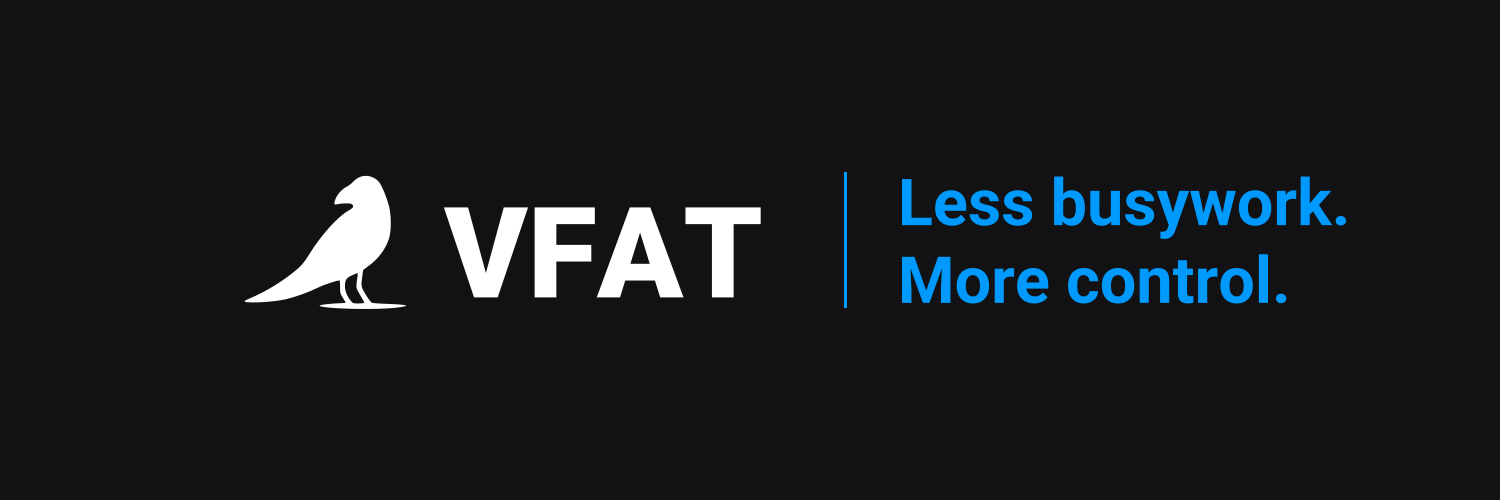
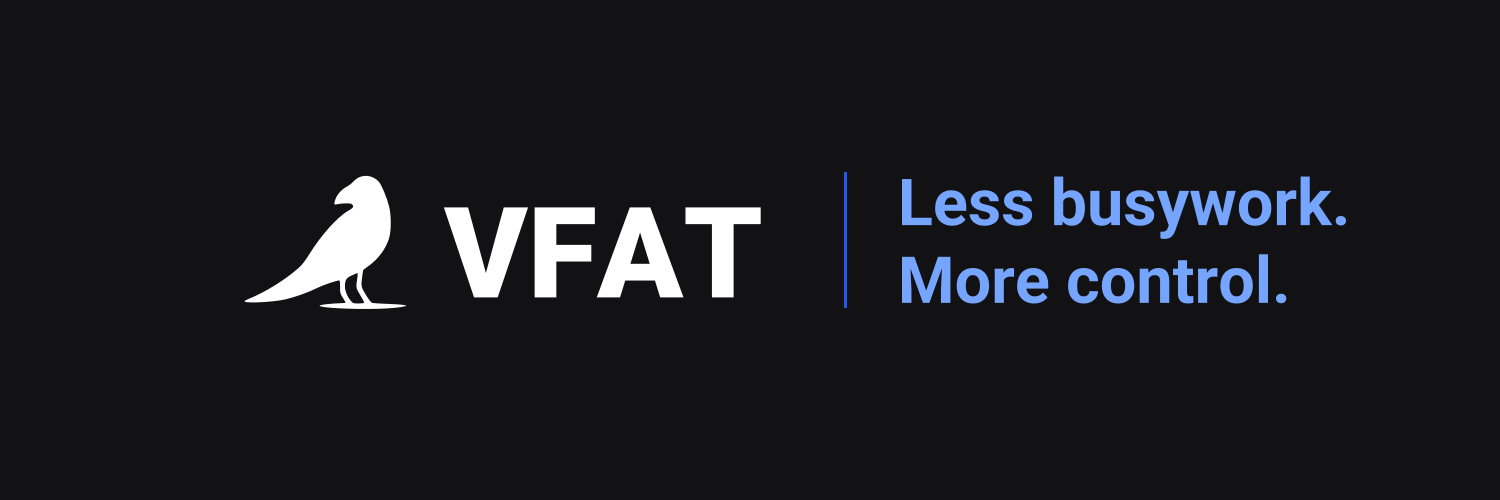
use the app's blues and add a color palette
- Blue #1d5bf0 (the app's buttons and links) replaces the link-card accent
  #009aff, which can't carry white text (2.97:1); Light blue #75a5ff for
  blue text on dark, and the app's light background #edecef.
- colors.css with --vfat-* custom properties next to colors.json, a swatch
  row in the preview sheet, and a README palette table with contrast notes
  and usage guidance.
- X banner tagline in Light blue on dark and Blue on light.
- Larger "vfat.io" on the landscape and square social images, so it stays
  readable at feed size.

Changed region(s): [[0.5827, 0.36, 0.92, 0.48], [0.5827, 0.51, 0.8587, 0.63]]

diff --git a/colors.css b/colors.css
@@ -1,0 +1,10 @@
+/* VFAT brand colors. Generated by scripts/build.py. */
+:root {
+  --vfat-black: #000000;
+  --vfat-white: #ffffff;
+  --vfat-social-background: #121113;
+  --vfat-icon-background: #262626;
+  --vfat-light-background: #edecef;
+  --vfat-accent: #1d5bf0;
+  --vfat-accent-on-dark: #75a5ff;
+}

diff --git a/scripts/build.py b/scripts/build.py
@@ -19,8 +19,13 @@ COLORS = {
     "white": "#ffffff",
     "social-background": "#121113",
     "icon-background": "#262626",
-    "accent": "#009aff",
+    "light-background": "#edecef",
+    "accent": "#1d5bf0",
+    "accent-on-dark": "#75a5ff",
 }
+# Preview labels, in COLORS order.
+COLOR_NAMES = ["Black", "White", "Dark background", "Icon background",
+               "Light background", "Blue", "Light blue"]
 
 
 def main():
@@ -48,21 +53,24 @@ def main():
     ):
         landscape = rect(1200, 630, background)
         landscape += f'<g transform="translate(222 157) scale(0.9)">{lockup(foreground)}</g>'
-        landscape += shape("domain", 542, 476, 116, foreground)
+        landscape += shape("domain", 510, 467, 180, foreground)
         export(f"social/vfat-social-landscape-{theme}", 1200, 630,
                landscape, background, [1200], size_suffix=False)
         square = rect(1080, 1080, background)
         square += shape("bird", 330, 196, 420, foreground)
         square += shape("wordmark", 305, 689, 470, foreground)
-        square += shape("domain", 482, 932, 116, foreground)
+        square += shape("domain", 450, 923, 180, foreground)
         export(f"social/vfat-social-square-{theme}", 1080, 1080,
                square, background, [1080], size_suffix=False)
-        # The accent is too light for text on white.
-        tagline = COLORS["accent"] if theme == "dark" else foreground
+        # Blue text on dark needs the lighter blue for contrast.
+        tagline = COLORS["accent-on-dark" if theme == "dark" else "accent"]
         export(f"social/vfat-x-banner-{theme}", 1500, 500,
                banner(background, foreground, tagline), background, [1500], size_suffix=False)
 
     (ROOT / "colors.json").write_text(json.dumps(COLORS, indent=2) + "\n")
+    (ROOT / "colors.css").write_text(
+        "/* VFAT brand colors. Generated by scripts/build.py. */\n:root {\n"
+        + "".join(f"  --vfat-{name}: {value};\n" for name, value in COLORS.items()) + "}\n")
     manifest = {
         "version": VERSION,
         "website": "https://vfat.io",
@@ -140,12 +148,13 @@ def record(path, width, height, background):
 
 def preview():
     # Pillow's bundled font keeps the documentation preview reproducible.
-    sheet = Image.new("RGB", (1280, 1848), "#eeedef")
+    sheet = Image.new("RGB", (1280, 2040), COLORS["light-background"])
     draw = ImageDraw.Draw(sheet)
     title_font = ImageFont.load_default(size=36)
     label_font = ImageFont.load_default(size=20)
     draw.text((40, 32), "VFAT / BRAND ASSETS", fill="#121113", font=title_font)
-    draw.text((40, 88), "Logos, app icons and social images", fill="#555555", font=label_font)
+    draw.text((40, 88), "Logos, app icons, social images and colors", fill="#555555",
+              font=label_font)
     samples = [
         ("logos/mark/vfat-mark-black-512.png", "#ffffff", "Black mark / light backgrounds"),
         ("logos/mark/vfat-mark-white-512.png", "#121113", "White mark / dark backgrounds"),
@@ -168,6 +177,11 @@ def preview():
         tile.paste(asset, ((tile.width - asset.width) // 2, (272 - asset.height) // 2), asset)
         sheet.paste(tile, (x, y))
         draw.text((x, y + 286), label, fill="#121113", font=label_font)
+    for index, (name, value) in enumerate(zip(COLOR_NAMES, COLORS.values())):
+        x = 40 + index * 174
+        draw.rectangle([x, 1830, x + 155, 1949], fill=value, outline="#cfcdd2")
+        draw.text((x, 1962), name, fill="#121113", font=label_font)
+        draw.text((x, 1988), value.upper(), fill="#555555", font=label_font)
     (ROOT / "previews").mkdir(exist_ok=True)
     sheet.save(ROOT / "previews/brand-kit.png")
 

diff --git a/SOURCES.md b/SOURCES.md
@@ -8,12 +8,14 @@ The bird artwork is taken unchanged from VFAT's frontend logo. Source snapshot: 
 | --- | --- |
 | `src/lib/components/ui/Logo.svelte` | Bird path and original `0 0 285 285` viewBox, preserved in `sources/bird.svg` |
 | `static/icon.svg` | Dark icon color, corner radius, and bird placement |
-| `src/lib/server/og/brand.ts` | Social background, foreground, accent, and Roboto font family |
+| `src/lib/server/og/brand.ts` | Social background, foreground, and Roboto font family |
 | `static/fonts/og/Roboto-Black.ttf` | Outlined “VFAT” in `sources/wordmark.svg` |
 | `static/fonts/og/Roboto-Regular.ttf` | Outlined “vfat.io” in `sources/domain.svg` |
 | `static/fonts/og/Roboto-Bold.ttf` | Outlined X banner tagline in `sources/tagline.svg` |
 
 The horizontal composition, light icon, neutral social layouts, and X banner were prepared for this kit. They reuse the existing bird and typography; the bird was not redrawn. The banner's tagline, “Less busywork. More control.”, is the closing line of VFAT's product tour. `scripts/outline.py` produces the outlined lettering with fontTools 4.59.2. No font binaries or frontend application code are distributed in the kit. The public SVG masters are sufficient to reproduce all exports, without access to the frontend repository.
+
+The colors added in version 1.1.0 were checked at `vfat-io/vfat-io` commit `323131dcc78ac9c9ac54993dc785c7ba2e4ccb93` on 2026-10-20. Blue is the app's `--primary-solid` and Light blue its dark-theme `--primary`, both in `src/lib/styles/theme.css`. The dark and light backgrounds are the app's `browserThemeColors` (`src/lib/styles/browserThemeColors.ts`). Version 1.0.0 listed `#009AFF`, the link-preview cards' accent at the time, as the accent; the app's blues replace it.
 
 ## Rebuild
 
@@ -25,7 +27,7 @@ python3 -m venv .venv
 .venv/bin/python scripts/build.py
 ```
 
-Edit the vector masters in `sources/` or the layouts in `scripts/build.py`, then rebuild. All public SVG lettering must remain outlined, and SVGs must not require scripts, external images, or external fonts. The builder writes the public SVG/PNG assets, the README preview, `colors.json`, and `manifest.json`.
+Edit the vector masters in `sources/` or the layouts in `scripts/build.py`, then rebuild. All public SVG lettering must remain outlined, and SVGs must not require scripts, external images, or external fonts. The builder writes the public SVG/PNG assets, the README preview, `colors.json`, `colors.css`, and `manifest.json`.
 
 To change lettering, such as the banner's tagline, edit `LETTERING` in `scripts/outline.py`. Then outline it from the frontend's `static/fonts/og/` directory and rebuild:
 
@@ -38,4 +40,4 @@ The outliner rewrites every lettering master. With the frontend's font files, th
 
 Review the preview sheet at `previews/brand-kit.png`, check transparency and dimensions, and inspect changes before publishing. Keep existing version tags unchanged. For a new release, update `VERSION` in the builder and the versioned examples in the README, regenerate assets, and publish a new tag.
 
-The release ZIP contains `README.md`, `USAGE.md`, `LICENSE.md`, `SOURCES.md`, `colors.json`, `manifest.json`, and the `logos/`, `icons/`, `social/`, `sources/`, and `previews/` directories. The GitHub source archive additionally contains the export and outline scripts and the dependency list.
+The release ZIP contains `README.md`, `USAGE.md`, `LICENSE.md`, `SOURCES.md`, `colors.json`, `colors.css`, `manifest.json`, and the `logos/`, `icons/`, `social/`, `sources/`, and `previews/` directories. The GitHub source archive additionally contains the export and outline scripts and the dependency list.

diff --git a/README.md b/README.md
@@ -52,16 +52,23 @@ Files on `main` may evolve. Use a release tag or commit SHA when you need fixed 
 
 ## Colors and type
 
-| Role | Value |
-| --- | --- |
-| Black logo | `#000000` |
-| White logo / text | `#FFFFFF` |
-| Social background | `#121113` |
-| App icon background | `#262626` |
-| Accent used in VFAT social cards | `#009AFF` |
-| Supporting typography | Roboto |
+| Color | Value | Key | Use |
+| --- | --- | --- | --- |
+| Black | `#000000` | `black` | Logo and text on light backgrounds |
+| White | `#FFFFFF` | `white` | Logo and text on dark backgrounds; text on Blue |
+| Dark background | `#121113` | `social-background` | Social images and VFAT's dark theme |
+| Icon background | `#262626` | `icon-background` | Dark app icon |
+| Light background | `#EDECEF` | `light-background` | VFAT's light theme |
+| Blue | `#1D5BF0` | `accent` | Buttons, links, and accents |
+| Light blue | `#75A5FF` | `accent-on-dark` | Blue text on dark backgrounds |
 
-The horizontal logo pairs the existing bird with outlined Roboto Black lettering. Use the supplied black or white logo treatments. The blue is a supporting accent. Machine-readable values are in [colors.json](colors.json).
+Contrast for text:
+
+- White on Blue: 5.5:1, so white labels work on Blue buttons.
+- Blue on white: 5.5:1; on Light background: 4.7:1.
+- Light blue on Dark background: 7.7:1. Blue on Dark background is 3.4:1: use it there for large text, rules, and fills, not body text.
+
+The logo stays black or white; the blues are supporting colors. Typography is Roboto: the horizontal logo pairs the bird with outlined Roboto Black lettering. Machine-readable values are in [colors.json](colors.json), and as CSS custom properties, such as `--vfat-accent`, in [colors.css](colors.css). Copy the file into your project rather than linking to it.
 
 ## Usage and maintenance
 

diff --git a/USAGE.md b/USAGE.md
@@ -26,6 +26,12 @@ For a joint announcement, place your logo and a supplied VFAT logo in your own l
 - Avoid stretching, recoloring, rotating, adding outlines or effects, placing text over the logo, or combining it into a new logo.
 - Social images have their own spacing. Keep their original aspect ratio when posting them as supplied.
 
+## Colors
+
+- Keep the logo black or white. Use the [palette](README.md#colors-and-type) for the surrounding design.
+- For a button or link that opens VFAT, Blue (`#1D5BF0`) with white text matches the app.
+- On dark backgrounds, use Light blue (`#75A5FF`) for blue text.
+
 ## Permission
 
 These assets are available for accurate references to VFAT in integrations, app listings, referral links, articles, and social posts, including commercial projects. Follow the [brand asset permission](LICENSE.md). Access to this kit does not by itself establish a partnership, endorsement, or referral arrangement.
